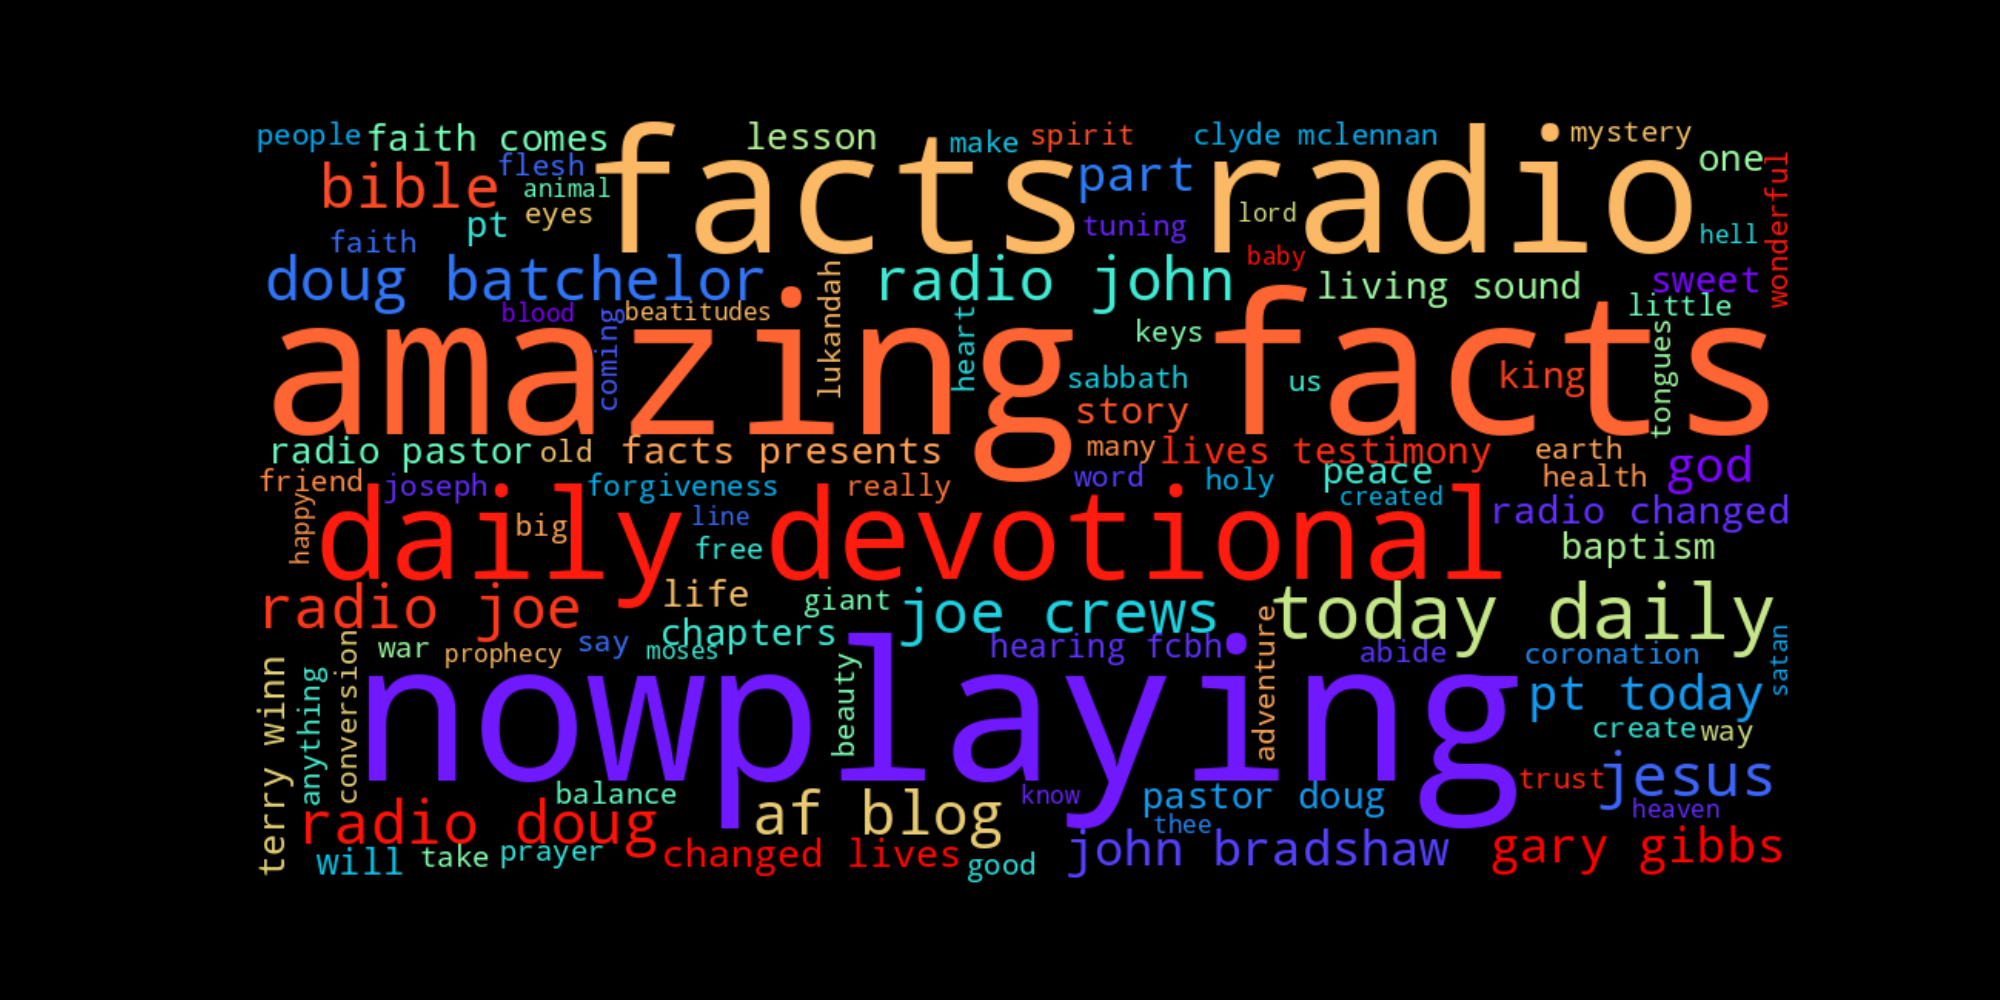
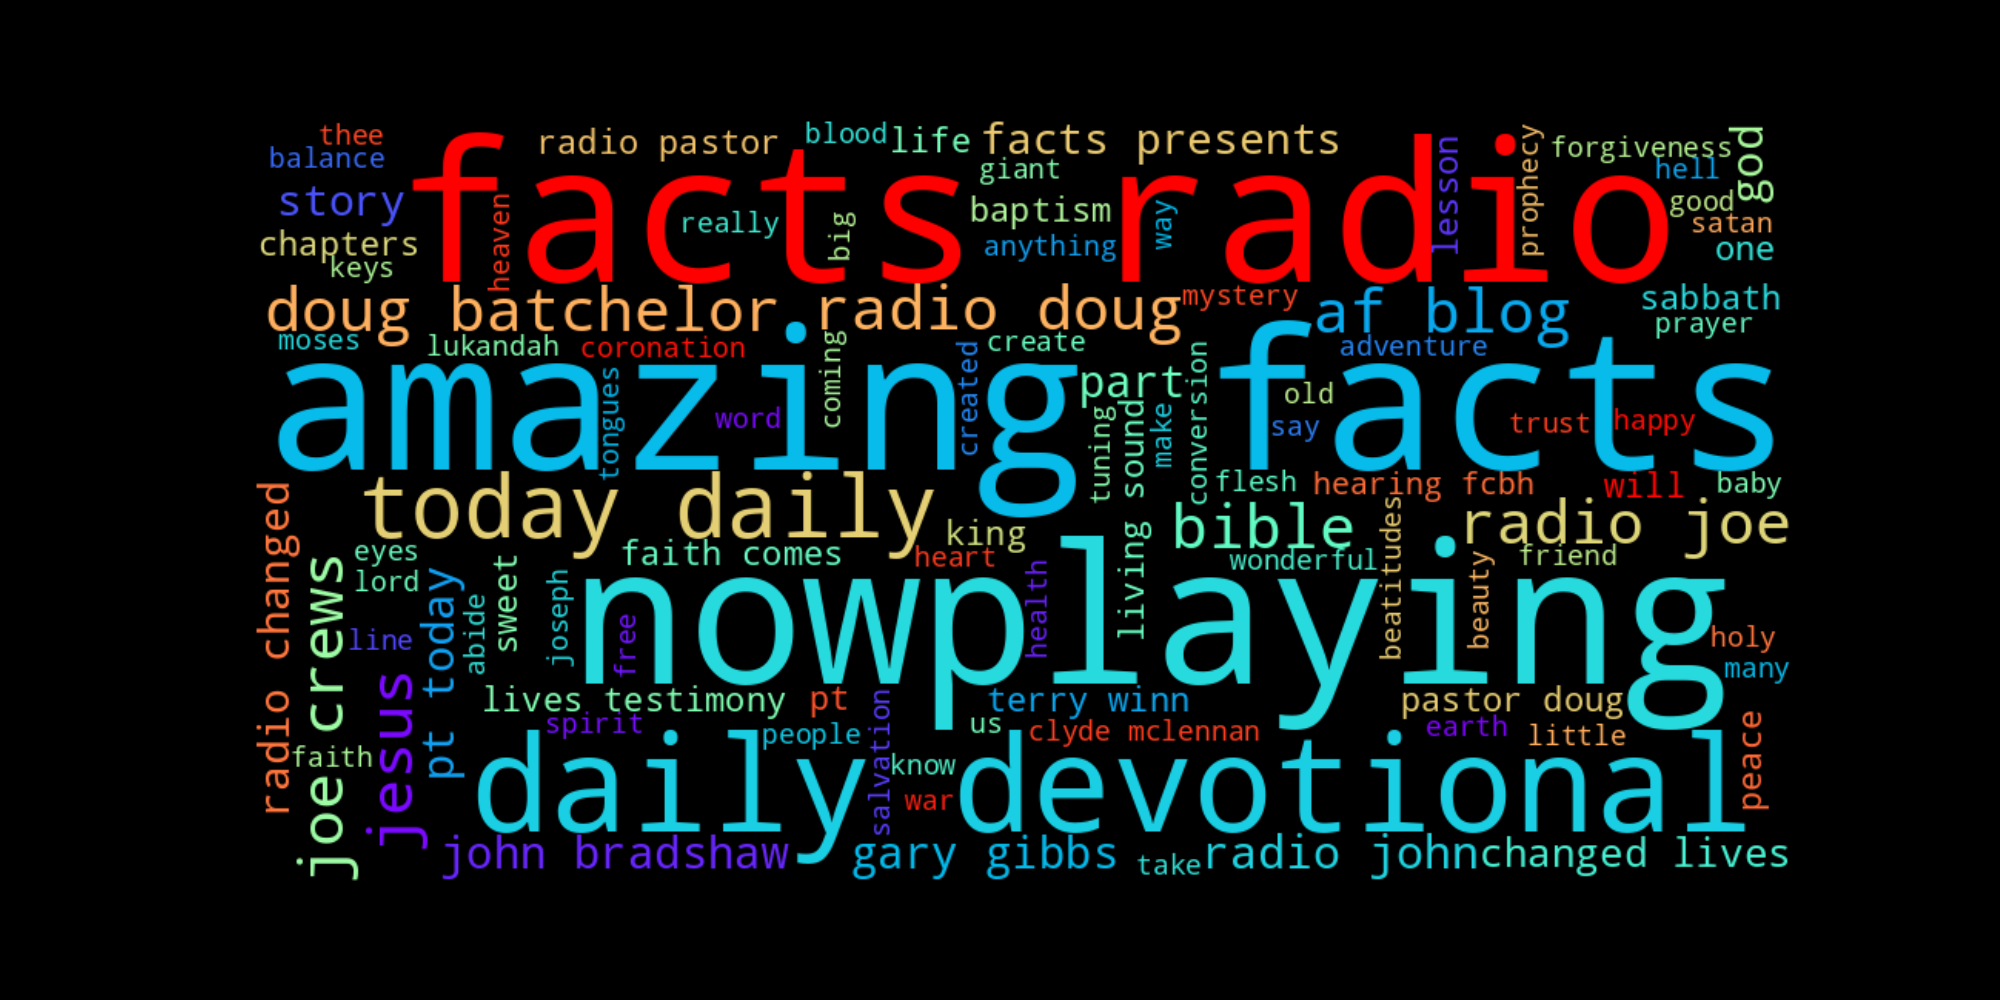
more features added

Changed region(s): [[0.124, 0.124, 0.899, 0.899]]

diff --git a/app.py b/app.py
@@ -1,7 +1,10 @@
+from textwrap import indent
 import streamlit as st
 import matplotlib.pyplot as plt 
+from streamlit_echarts import st_echarts
 from helper import make_stopwords, authenticate,create_pie_chart, get_user_tweeets,count_values_in_column, make_wordcloud, preprocess, get_tweets
 
+st.set_page_config(layout="wide")
 st.title(" ☁ Analyse Your Tweets ☁ ") 
 seleected = st.selectbox('Pick one', ['An Account', 'A Tag'])
 if seleected == "An Account":
@@ -98,12 +101,14 @@ else:
             
             # try getting the tweets; if the username is incorrect, display the except message     
             try:
-                tweets = get_tweets(st.session_state.tag,500, st.session_state.api)
+
+                with st.spinner(text='We\'re getting the tweets. Give it a sec...'):
+                    tw_list = get_tweets(st.session_state.tag,500, st.session_state.api)
             
                 # check that the user has tweeted at least ten times, 
                 # if not display the except message 
                 try:
-                    tw_list = tweets  
+                    # tw = tw_list[4]  
                 
                     # display loading sign whie making the wordcould
                     st.spinner()
@@ -116,10 +121,51 @@ else:
                         # create data for Pie Chart
                         names= ['{} {}%'.format(x,str(round(pc.loc[x,"Percentage"]))) for x in pc.index]
                         data=pc["Percentage"]
+                        pie_data = [{'value':round(pc.loc[x,"Percentage"]), 'name': '{} {}%'.format(x,str(round(pc.loc[x,"Percentage"])))} for x in pc.index ]
                         wordfig = make_wordcloud(str(tw_list["text"].values))
+                        wordfig_neg = make_wordcloud(str(tw_list_negative["text"].values))
+                        wordfig_neu = make_wordcloud(str(tw_list_neutral["text"].values))
+                        wordfig_pos = make_wordcloud(str(tw_list_positive["text"].values))
                         st.pyplot(wordfig)
-                        piefig = create_pie_chart(data,names)
-                        st.pyplot(piefig)
+                        # piefig = create_pie_chart(data,names)
+                        # st.pyplot(piefig)
+
+                        option = {
+                            "legend": {"top": "bottom"},
+                            "toolbox": {
+                                "show": True,
+                                "feature": {
+                                    "mark": {"show": True},
+                                    "dataView": {"show": True, "readOnly": False},
+                                    "restore": {"show": True},
+                                    "saveAsImage": {"show": True},
+                                },
+                            },
+                            "series": [
+                                {
+                                    "name": "Percentage of Sentiments",
+                                    "type": "pie",
+                                    "radius": [50, 250],
+                                    "center": ["50%", "50%"],
+                                    "roseType": "area",
+                                    "itemStyle": {"borderRadius": 8},
+                                    "data": pie_data,
+                                }
+                            ],
+                        }
+                        st_echarts(
+                            options=option, height="600px",
+                        )
+
+                        # st.write(pie_data)
+                        # st.write(piefig)
+
+
+                        col1, col2, col3 = st.columns(3)
+
+                        col1.pyplot(wordfig_neg)
+                        col2.pyplot(wordfig_neu)
+                        col3.pyplot(wordfig_pos)
                         st.balloons()
                         
                     

diff --git a/helper.py b/helper.py
@@ -23,7 +23,7 @@ nltk.download('vader_lexicon')
 def authenticate(consumer_key, consumer_secret,access_token_key, access_token_secret):    
     auth = tweepy.OAuthHandler(consumer_key, consumer_secret)
     auth.set_access_token(access_token_key, access_token_secret)
-    api = tweepy.API(auth)
+    api = tweepy.API(auth,wait_on_rate_limit=True)
     return api
 
 def get_user_tweeets(screen_name,api):
@@ -167,14 +167,14 @@ def create_pie_chart(data, names):
     plt.pie(data, labels=names)
     p=plt.gcf()
     p.gca().add_artist(my_circle)
-    return plt
+    return plt.show
     
 
 def make_wordcloud(out):
     stopwords = set(STOPWORDS)
     wordcloud = WordCloud(width=1000, height=500,stopwords=stopwords,
-                        max_font_size=250, max_words=100,repeat=True,
-                        colormap='rainbow', collocations=True).generate(out)  
+                        max_font_size=250, max_words=1000,
+                        colormap='Set2', collocations=False).generate(out)  
 
     # image_colors = ImageColorGenerator(twitter_mask)
 
